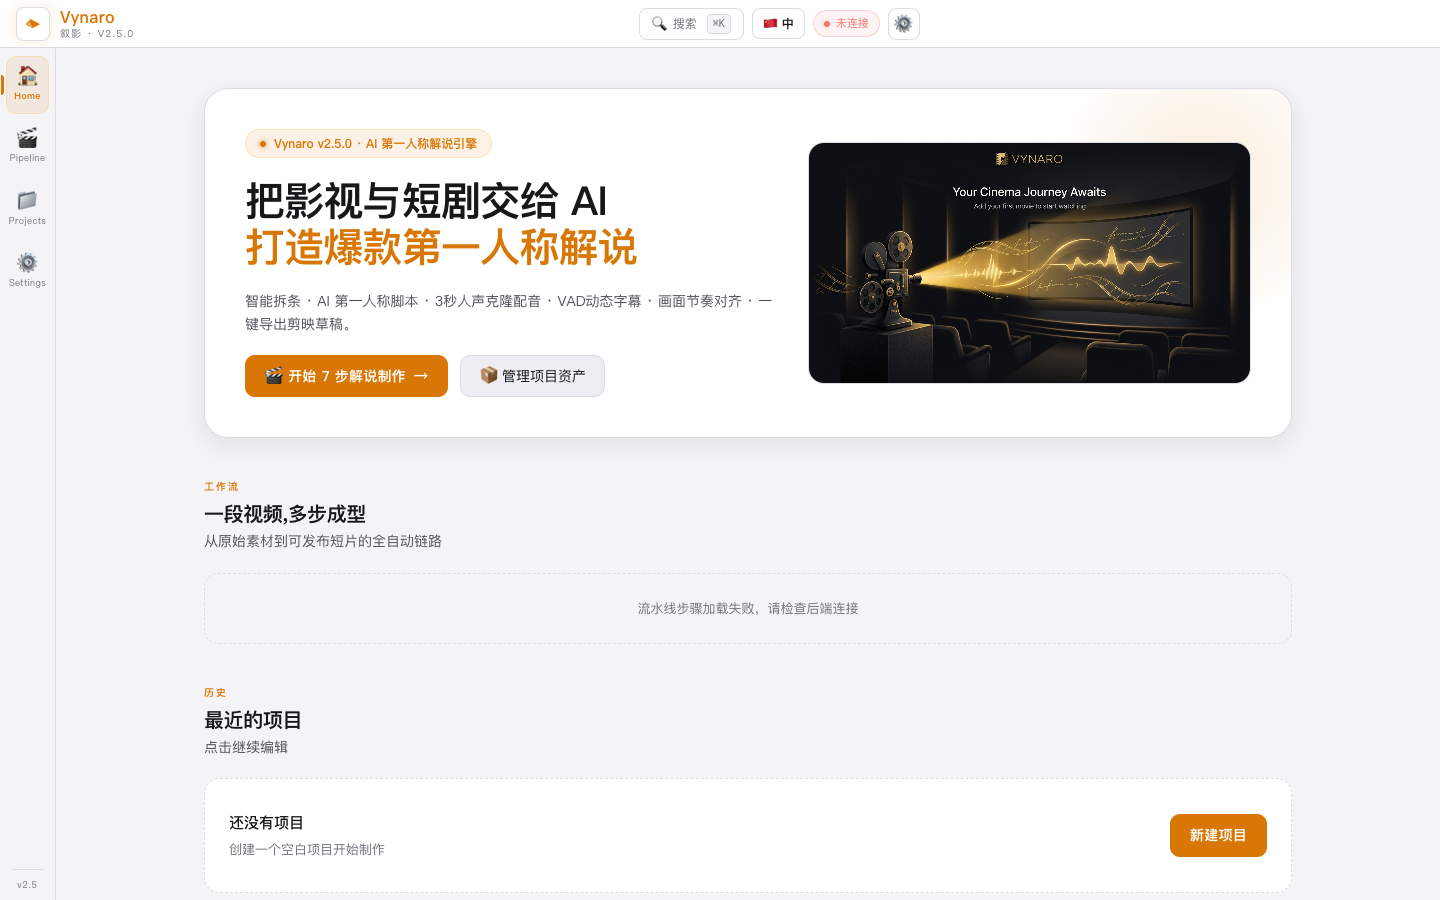
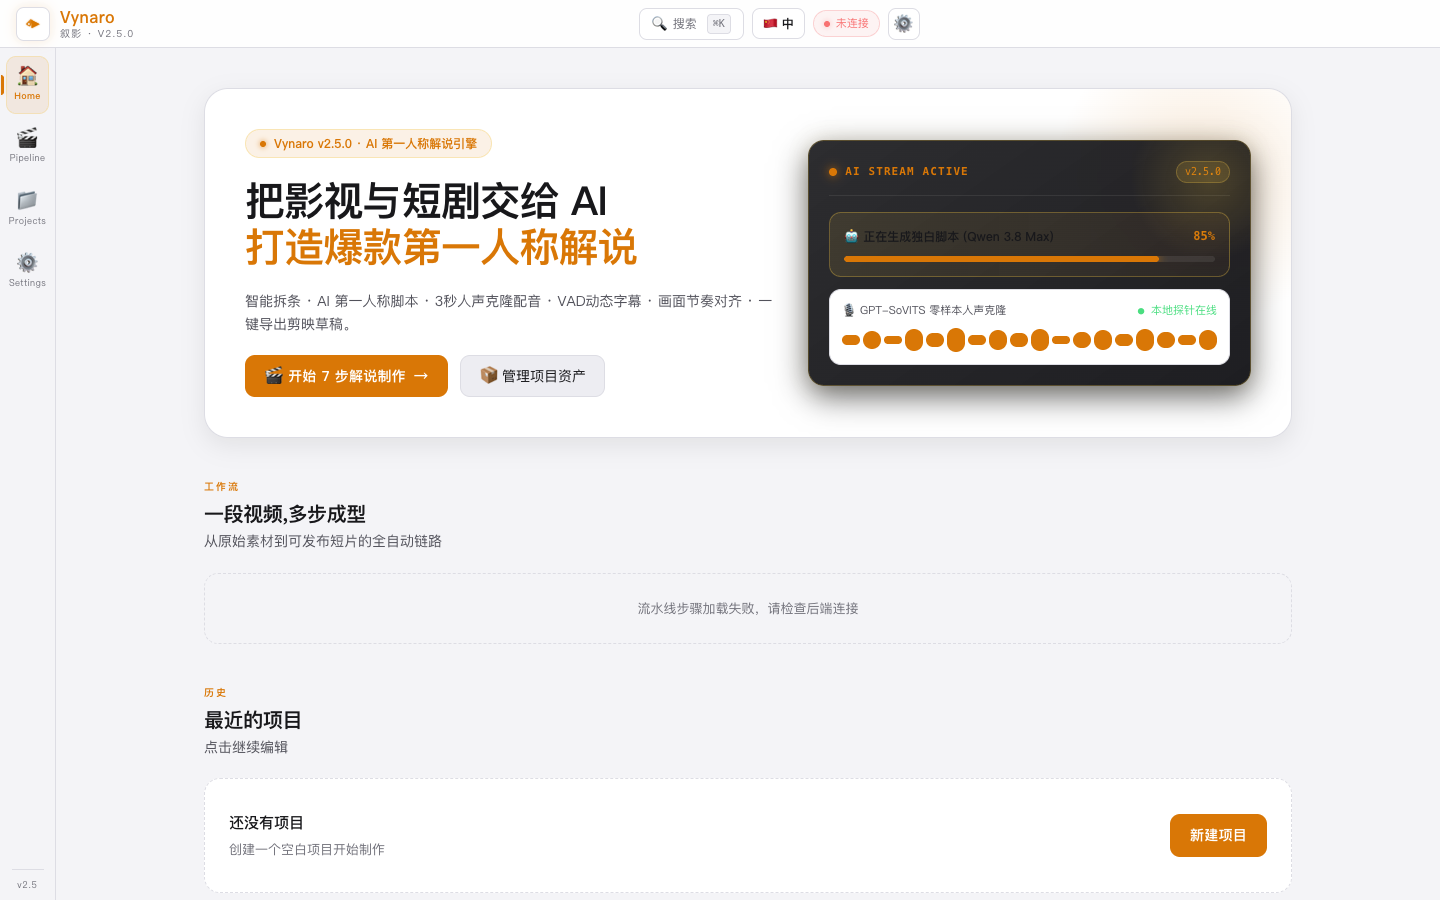
style(ui): redesign HeroVisual and dashboard UI elements to match Cinematic Darkroom design system

Changed region(s): [[0.5312, 0.1244, 0.9062, 0.4667]]

diff --git a/apps/desktop/src/routes/index.tsx b/apps/desktop/src/routes/index.tsx
@@ -184,8 +184,145 @@ function Hero() {
 
 function HeroVisual() {
   return (
-    <div style={{ position: "relative", borderRadius: "16px", overflow: "hidden", border: "1px solid var(--color-border)" }}>
-      <img src="/empty-state.jpg" alt="Vynaro Cinema Journey" style={{ width: "100%", height: "240px", objectFit: "cover" }} />
+    <div
+      style={{
+        position: "relative",
+        borderRadius: "16px",
+        overflow: "hidden",
+        border: "1px solid rgba(245, 200, 66, 0.25)",
+        background: "linear-gradient(145deg, rgba(22, 22, 25, 0.9), rgba(18, 18, 22, 0.95))",
+        padding: "20px",
+        boxShadow: "0 10px 30px rgba(0,0,0,0.6), 0 0 20px rgba(245,200,66,0.1)",
+        backdropFilter: "blur(12px)",
+      }}
+    >
+      {/* Ambient gold glow */}
+      <div
+        style={{
+          position: "absolute",
+          top: "-40px",
+          right: "-40px",
+          width: "160px",
+          height: "160px",
+          borderRadius: "50%",
+          background: "radial-gradient(circle, rgba(245,200,66,0.18) 0%, transparent 70%)",
+          pointerEvents: "none",
+        }}
+      />
+
+      {/* Card Header */}
+      <div
+        style={{
+          display: "flex",
+          alignItems: "center",
+          justifyContent: "space-between",
+          borderBottom: "1px solid rgba(255, 255, 255, 0.08)",
+          paddingBottom: "12px",
+          marginBottom: "16px",
+        }}
+      >
+        <div style={{ display: "flex", alignItems: "center", gap: "8px" }}>
+          <span
+            style={{
+              width: "8px",
+              height: "8px",
+              borderRadius: "50%",
+              backgroundColor: "var(--color-gold)",
+              boxShadow: "0 0 10px var(--color-gold)",
+            }}
+          />
+          <span
+            style={{
+              fontFamily: "monospace",
+              fontSize: "11px",
+              fontWeight: 700,
+              letterSpacing: "0.1em",
+              color: "var(--color-gold)",
+              textTransform: "uppercase",
+            }}
+          >
+            AI Stream Active
+          </span>
+        </div>
+        <span
+          style={{
+            fontFamily: "monospace",
+            fontSize: "10px",
+            color: "var(--color-gold)",
+            background: "rgba(245, 200, 66, 0.12)",
+            border: "1px solid rgba(245, 200, 66, 0.25)",
+            padding: "2px 8px",
+            borderRadius: "999px",
+          }}
+        >
+          v2.5.0
+        </span>
+      </div>
+
+      {/* Active Pipeline Preview */}
+      <div style={{ display: "flex", flexDirection: "column", gap: "12px" }}>
+        <div
+          style={{
+            borderRadius: "12px",
+            border: "1px solid rgba(245, 200, 66, 0.3)",
+            background: "linear-gradient(90deg, rgba(245,200,66,0.1) 0%, rgba(232,147,58,0.05) 100%)",
+            padding: "14px",
+          }}
+        >
+          <div style={{ display: "flex", justifyContent: "space-between", fontSize: "12px", fontWeight: 600, color: "var(--color-text-primary)" }}>
+            <span>🤖 正在生成独白脚本 (Qwen 3.8 Max)</span>
+            <span style={{ color: "var(--color-gold)", fontFamily: "monospace" }}>85%</span>
+          </div>
+          <div
+            style={{
+              marginTop: "10px",
+              height: "6px",
+              width: "100%",
+              borderRadius: "999px",
+              background: "rgba(255, 255, 255, 0.08)",
+              overflow: "hidden",
+            }}
+          >
+            <div
+              style={{
+                height: "100%",
+                width: "85%",
+                borderRadius: "999px",
+                background: "linear-gradient(90deg, var(--color-gold), var(--color-amber))",
+                boxShadow: "0 0 10px var(--color-gold)",
+              }}
+            />
+          </div>
+        </div>
+
+        {/* Real-time Waveform Preview */}
+        <div
+          style={{
+            borderRadius: "12px",
+            border: "1px solid var(--color-border)",
+            background: "var(--color-surface)",
+            padding: "12px",
+          }}
+        >
+          <div style={{ display: "flex", justifyContent: "space-between", fontSize: "11px", color: "var(--color-text-secondary)", marginBottom: "8px" }}>
+            <span>🎙 GPT-SoVITS 零样本人声克隆</span>
+            <span style={{ color: "var(--color-success)", fontFamily: "monospace" }}>● 本地探针在线</span>
+          </div>
+          <div style={{ display: "flex", alignItems: "center", gap: "3px", height: "24px" }}>
+            {[45, 75, 30, 90, 60, 100, 45, 80, 55, 95, 35, 70, 85, 50, 90, 65, 40, 80].map((h, i) => (
+              <div
+                key={i}
+                style={{
+                  flex: 1,
+                  height: `${h}%`,
+                  borderRadius: "999px",
+                  background: "linear-gradient(180deg, var(--color-gold) 0%, var(--color-amber) 100%)",
+                }}
+              />
+            ))}
+          </div>
+        </div>
+      </div>
     </div>
   );
 }
